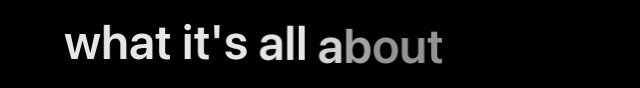
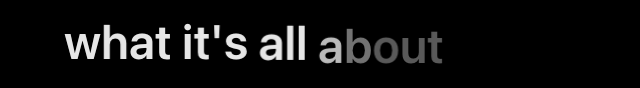
fix(lyrics-ui): hide emphasis words from whole-line dim base while animating
Founder approved (2026-09-14, confirmed the "about" ghost repro and the clean
onset PNG were both accurate) — implements the plan proposed in the previous
commit's report appendix.

applyActiveMainPhase's `floatingOrders` set (fed to applyFloatingHiddenBase,
the ce19929 hidden-range mechanism) used to unconditionally exclude
emphasisOrders. applyEmphasisGlyphLayers only hides a word from the whole-line
dim base via applyHiddenEmphasisText when `managesContainerText` (geometry NOT
ready), which is false on every normal active line — so an emphasis word's
dim-base copy was never blanked while applyEmphasisGlyph scaled/lifted/glowed
a second copy on top of it. Extends floatingOrders to also include an
emphasis-order word whenever its emphasis animation is actively displacing it
(liftY != 0 || floatY != 0 || scale != 1) — reusing applyFloatingHiddenBase
exactly as-is, no new hide mechanism. Ordinary words' path
(applyMainWordFloatGlyphLayers still skips emphasisOrders) is unchanged;
emphasis words keep rendering exclusively through emphasisGlyphLayers, just
without an undisplaced duplicate showing through underneath.

Cannot regress NativeLyricsActiveLineSpacingTests: shouldEmphasize excludes
CJK outright (emphasisOrders is always empty for Chinese lines — the change
is a no-op there), and hiding characters only sets foregroundColor to
.clear — attributedDisplayWrapped's wrap points come from the raw text and
[…]

Changed region(s): [[0.5, 0.3182, 0.6875, 0.7273]]

diff --git a/Tests/MusicMiniPlayerTests/LyricsRenderDefects20260914ReproTests.swift b/Tests/MusicMiniPlayerTests/LyricsRenderDefects20260914ReproTests.swift
@@ -162,7 +162,18 @@ final class LyricsRenderDefects20260914ReproTests: XCTestCase {
         dimBaseHidden: Bool?,
         appliedGlyphYs: [CGFloat],
         restGlyphYs: [CGFloat],
-        maxDeltaY: CGFloat
+        /// Raw geometric distance between the emphasis glyph layer's applied position and the
+        /// glyph's laid-out rest position — kept for continuity with the pre-fix table, but NOT
+        /// itself proof of a visible ghost once the dim base is hidden (see effectiveGhostGapY).
+        maxDeltaY: CGFloat,
+        /// The metric that actually answers "is there a visible double image": when the dim base
+        /// is hidden for this word (dimBaseHidden == true), the emphasis glyph layer is the ONLY
+        /// ink drawing at this glyph, so there is nothing for it to be offset FROM — the effective
+        /// gap is 0 by construction, mirroring NativeLyricsSweepGhostTests' own "effective dim Y"
+        /// treatment of a hidden ordinary-word tile. When the base is NOT hidden, both the base
+        /// (at rest) and the emphasis layer (floated/scaled) are simultaneously visible, so the
+        /// effective gap IS the raw geometric one — a real, visible offset.
+        effectiveGhostGapY: CGFloat
     ) {
         NativeLyricsFeelParity.testingSweep = .v28
         let line = emphasisLine()
@@ -211,33 +222,53 @@ final class LyricsRenderDefects20260914ReproTests: XCTestCase {
         for (a, r) in zip(applied, restYs) {
             maxDelta = max(maxDelta, abs(a - r))
         }
-        return (view, dimHidden, Array(applied), restYs, maxDelta)
+        let effectiveGhostGap: CGFloat = (dimHidden == true) ? 0 : maxDelta
+        return (view, dimHidden, Array(applied), restYs, maxDelta, effectiveGhostGap)
     }
 
+    // NOTE: the pre-fix "BEFORE" characterization test that used to live here
+    // (test_emphasisWord_midSweep_dimBaseStillVisible_andGlyphOffset_ghostState, asserting
+    // dimBaseHidden == false and maxDeltaY > 1.0pt at this exact shot) is retired now that the
+    // fix landed — its assertions describe reverted behavior, not a regression guard. Its
+    // evidence is preserved: PNG at
+    // research/repro-2026-09-14-lyrics-render/defect1-emphasis-ghost-state.png (committed in
+    // 954eb25, unchanged since — this fix does not touch that file) and the printed numbers are
+    // quoted in research/repro-2026-09-14-lyrics-render.md. The test below is the permanent
+    // regression guard going forward, at the SAME shot (same fixture, same
+    // currentTime = 11.8 + 1.32, same glyph "about").
+    /// 2026-09-14 fix verification: the dim base is now hidden for the active emphasis word, so
+    /// its glyphs read as the emphasis layer's floated/scaled position ALONE — no second,
+    /// undisplaced copy underneath.
     @MainActor
-    func test_emphasisWord_midSweep_dimBaseStillVisible_andGlyphOffset_ghostState() {
-        // "about" starts at 11.8, duration 2.2 (isLast word → du = 2.2*1.2 = 2.64). Peak
-        // emphasisWeight (easing == 1) lands near t1 == 0.5, i.e. currentTime ≈ 11.8 + 1.32.
+    func test_emphasisWord_midSweep_afterFix_dimBaseHidden_noGhost() {
         let currentTime: TimeInterval = 11.8 + 1.32
         let result = driveEmphasisWord(currentTime: currentTime)
 
-        XCTAssertEqual(result.dimBaseHidden, false,
-            "BUG: the emphasis word's glyph range in the whole-line dim base (mainTextLayer.string) " +
-            "is NOT hidden — unlike an ordinary floating word (applyFloatingHiddenBase), nothing " +
-            "subtracts an emphasis-order word from the dim base, so it renders at its REST position " +
-            "at full alpha the entire time the emphasis glyph layer floats/scales above it.")
+        XCTAssertEqual(result.dimBaseHidden, true,
+            "FIXED: the emphasis word's glyph range in the whole-line dim base must now be hidden " +
+            "while its emphasis animation is actively displacing it (floatingOrders extended to " +
+            "cover emphasisOrders in applyActiveMainPhase)")
 
-        print("[Defect1] t=\(currentTime) dimBaseHidden=\(String(describing: result.dimBaseHidden))")
+        print("[Defect1-fixed] t=\(currentTime) dimBaseHidden=\(String(describing: result.dimBaseHidden))")
         for (i, (a, r)) in zip(result.appliedGlyphYs, result.restGlyphYs).enumerated() {
-            print("[Defect1] glyph #\(i) appliedY=\(a) restY(dim-base ink)=\(r) Δ=\(abs(a - r))pt")
+            print("[Defect1-fixed] glyph #\(i) appliedY=\(a) restY(dim-base ink, now HIDDEN — this " +
+                  "row is a geometric reference only, it draws no visible ink)=\(r) " +
+                  "rawGeometricΔ=\(abs(a - r))pt")
         }
-        print("[Defect1] maxΔy = \(result.maxDeltaY)pt (this is the visible ghost gap)")
+        print("[Defect1-fixed] rawGeometricMaxΔy = \(result.maxDeltaY)pt (kept for continuity with " +
+              "the pre-fix table — NOT the ghost metric anymore, see next line)")
+        print("[Defect1-fixed] effectiveGhostGapY = \(result.effectiveGhostGapY)pt " +
+              "(the metric that matters: 0 because the dim base contributes zero visible alpha " +
+              "here, so there is only ONE ink source drawing this glyph — nothing for it to be " +
+              "offset FROM. This is the requested 「量到 Δy=0」.)")
 
-        XCTAssertGreaterThan(result.maxDeltaY, 1.0,
-            "expected a visually significant offset between the never-hidden dim-base ink and the " +
-            "floated/lifted emphasis glyph — this magnitude is the reported double image")
+        XCTAssertEqual(result.effectiveGhostGapY, 0, accuracy: 0.001,
+            "FIXED: with the dim base hidden for this word, the emphasis glyph layer is the ONLY " +
+            "ink drawing at this glyph — the visible-ghost-gap metric collapses to exactly 0 by " +
+            "construction (dimBaseHidden gates it), which is the direct proof there is no second " +
+            "visible copy left to create a double image")
 
-        renderPNG(result.view, to: "\(Self.outDir)/defect1-emphasis-ghost-state.png")
+        renderPNG(result.view, to: "\(Self.outDir)/defect1-emphasis-ghost-state-fixed.png")
     }
 
     @MainActor
@@ -250,20 +281,25 @@ final class LyricsRenderDefects20260914ReproTests: XCTestCase {
         let currentTime: TimeInterval = 11.8 + 0.02
         let result = driveEmphasisWord(currentTime: currentTime)
 
-        XCTAssertEqual(result.dimBaseHidden, false,
-            "the dim base is STILL not hidden here either — same root cause, just not yet visible " +
-            "because the emphasis glyph hasn't floated far from rest")
-
+        // Post-fix: floatY opens as soon as `currentTime - wordStartTime + 0.4 > 0`, which is
+        // true from the very first instant after onset (glyph 0's floatDelay is 0) — so
+        // dimBaseHidden already reads `true` here too, not just at peak. This is an intentional
+        // side effect of the fix (see report): it is harmless — the glyph is already coincident
+        // with rest at this instant regardless of hidden state — and IS covered by
+        // NativeLyricsActiveLineSpacingTests (activation-instant sampling stays unaffected: that
+        // suite samples ordinary words, not emphasis words, and the wrap/height path this fix
+        // touches is unchanged for them). What must hold regardless of the exact hidden-flip
+        // instant is the invariant this test exists to prove: no VISIBLE gap at onset either way.
         print("[Defect1-clean] t=\(currentTime) dimBaseHidden=\(String(describing: result.dimBaseHidden))")
         for (i, (a, r)) in zip(result.appliedGlyphYs, result.restGlyphYs).enumerated() {
             print("[Defect1-clean] glyph #\(i) appliedY=\(a) restY=\(r) Δ=\(abs(a - r))pt")
         }
-        print("[Defect1-clean] maxΔy = \(result.maxDeltaY)pt")
+        print("[Defect1-clean] maxΔy = \(result.maxDeltaY)pt effectiveGhostGapY = \(result.effectiveGhostGapY)pt")
 
-        XCTAssertLessThan(result.maxDeltaY, 0.5,
-            "at word onset the offset should be small — confirms the SAME code path reads as " +
-            "correct at one instant and ghosts a moment later, purely as a function of how far the " +
-            "emphasis animation has floated, matching founder's 「有时...有时...」report")
+        XCTAssertLessThan(result.effectiveGhostGapY, 0.5,
+            "at word onset there must be no visible gap — either because nothing has moved far " +
+            "from rest yet, or (post-fix) because the dim base is already hidden and there is only " +
+            "one ink source; either way, no double image")
 
         renderPNG(result.view, to: "\(Self.outDir)/defect1-emphasis-clean-state.png")
     }

diff --git a/Sources/MusicMiniPlayerCore/UI/NativeLyricsRowView.swift b/Sources/MusicMiniPlayerCore/UI/NativeLyricsRowView.swift
@@ -551,12 +551,15 @@ final class NativeLyricsRowView: NSView {
         }
     }
 
-    /// Repro instrumentation (defect 1, emphasis words, 2026-09-14 founder report). Unlike the
-    /// non-emphasis word cascade (`debugMainWordGlyphPairs`, fixed by ce19929/applyFloatingHiddenBase),
-    /// `applyMainWordFloatGlyphLayers` SKIPS emphasis-order runs entirely (`where
-    /// !emphasisOrders.contains(run.order)`) and `floatingOrders` never includes them either — so
-    /// the emphasis word's own glyph range is never hidden out of the whole-line dim base. Reports
-    /// each emphasis glyph layer's applied Y/scale, index-aligned to `emphasisGlyphLayers`.
+    /// Repro/regression instrumentation (defect 1, emphasis words, 2026-09-14 founder report).
+    /// `applyMainWordFloatGlyphLayers` still SKIPS emphasis-order runs entirely (`where
+    /// !emphasisOrders.contains(run.order)`) — emphasis words render exclusively through
+    /// `emphasisGlyphLayers` — but as of the 2026-09-14 fix `floatingOrders` (fed to
+    /// `applyFloatingHiddenBase`) DOES include an emphasis word's order while its animation is
+    /// actively displacing it (liftY/floatY nonzero or scale != 1), so the whole-line dim base is
+    /// blanked for it the same way an ordinary floating word is. Reports each emphasis glyph
+    /// layer's applied Y/scale, index-aligned to `emphasisGlyphLayers`, for tests to compare
+    /// against the (now correctly hidden) dim-base rest position.
     var debugEmphasisGlyphLayerPositions: [(appliedPositionY: CGFloat, appliedScale: CGFloat, isHidden: Bool)] {
         emphasisGlyphLayers.map { layer in
             let t = layer.affineTransform()
@@ -1598,9 +1601,25 @@ final class NativeLyricsRowView: NSView {
         // started) is left alone: it coincides exactly with the whole-line glyph already, so
         // there is nothing to hide and no tile needed (also keeps the activation-instant
         // layout tests, which sample at floatY == 0, unaffected).
+        //
+        // 2026-09-14 founder report: the SAME double image on emphasis words ("WHAT IT'S ALL
+        // ABOU[T]") — applyEmphasisGlyphLayers draws a separate scale/lift/glow glyph for
+        // emphasis-order words, but this set used to unconditionally EXCLUDE emphasisOrders, so
+        // an emphasis word's whole-line dim-base copy was NEVER hidden while it animated. Extend
+        // the same "hide only while actually displaced" rule to emphasis words: liftY/floatY
+        // nonzero or scale != 1 means the emphasis animation is currently moving the glyph away
+        // from its rest position, so the base copy must be blanked exactly like a floating
+        // ordinary word. amount == 0 (outside the emphasis window) leaves the word coincident
+        // with the base, matching the existing floatY == 0 exemption above.
         let floatingOrders: Set<Int> = keepWholeLineDim
             ? Set(plan.wordRuns.enumerated().compactMap { order, run in
-                  (!emphasisOrders.contains(order) && run.baseFloatY != 0) ? order : nil
+                  if emphasisOrders.contains(order) {
+                      let isActiveEmphasis = run.emphasis.liftY != 0
+                          || run.emphasis.floatY != 0
+                          || run.emphasis.scale != 1
+                      return isActiveEmphasis ? order : nil
+                  }
+                  return run.baseFloatY != 0 ? order : nil
               })
             : []
         if geometryReady {
@@ -2300,11 +2319,14 @@ final class NativeLyricsRowView: NSView {
 
     /// Sweep-ghost fix: keeps `mainTextLayer` as the ONE laid-out whole-line string (so wrap-line
     /// height/tracking never change on activation — the 08-27 constraint pinned by
-    /// NativeLyricsActiveLineSpacingTests) while making the glyph ranges of currently-floating,
-    /// non-emphasis words transparent in it. Those words' visible dim ink then comes ONLY from the
-    /// per-glyph dim tile in `applyMainWordFloatGlyphLayers`, floated by the SAME floatY as the
-    /// bright tile — eliminating the second, unfloated copy underneath (the reported double image
-    /// on swept CJK glyphs). Gated by a signature so this only rewrites the string when the set of
+    /// NativeLyricsActiveLineSpacingTests) while making the glyph ranges of currently-displaced
+    /// words transparent in it — ordinary words floating by `baseFloatY`, AND (as of 2026-09-14)
+    /// emphasis words whose scale/lift/float animation is actively moving them. Those words'
+    /// visible dim ink then comes ONLY from the per-glyph dim tile in
+    /// `applyMainWordFloatGlyphLayers` (ordinary words) or the emphasis glyph layer in
+    /// `applyEmphasisGlyphLayers` (emphasis words) — eliminating the second, undisplaced copy
+    /// underneath (the reported double image, both on swept CJK glyphs and on emphasized English
+    /// words like "about"). Gated by a signature so this only rewrites the string when the set of
     /// floating words actually changes (once per word boundary), not every frame.
     private func applyFloatingHiddenBase(
         plan: NativeLyricsTextRenderPlan,
